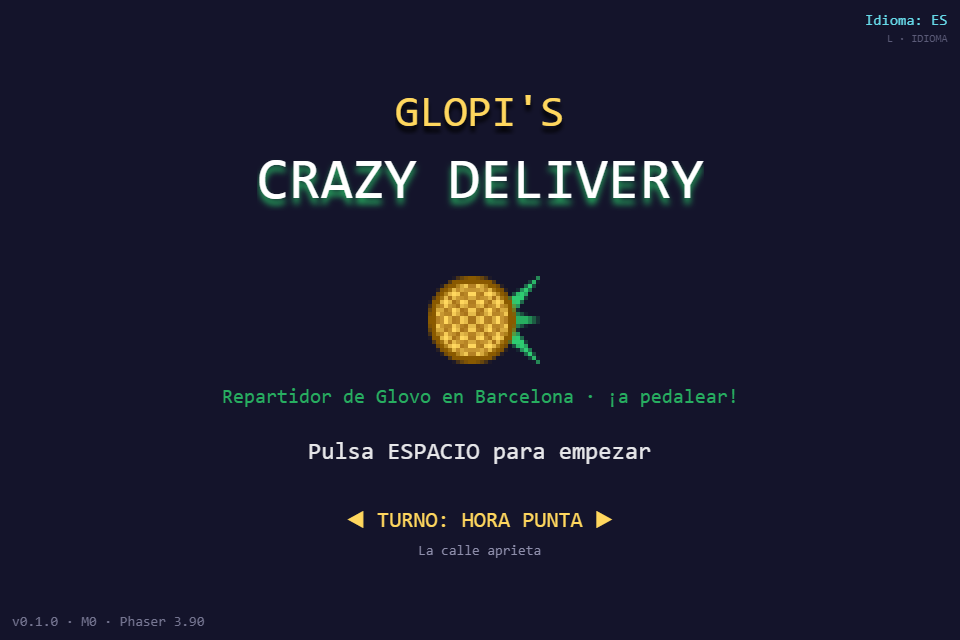
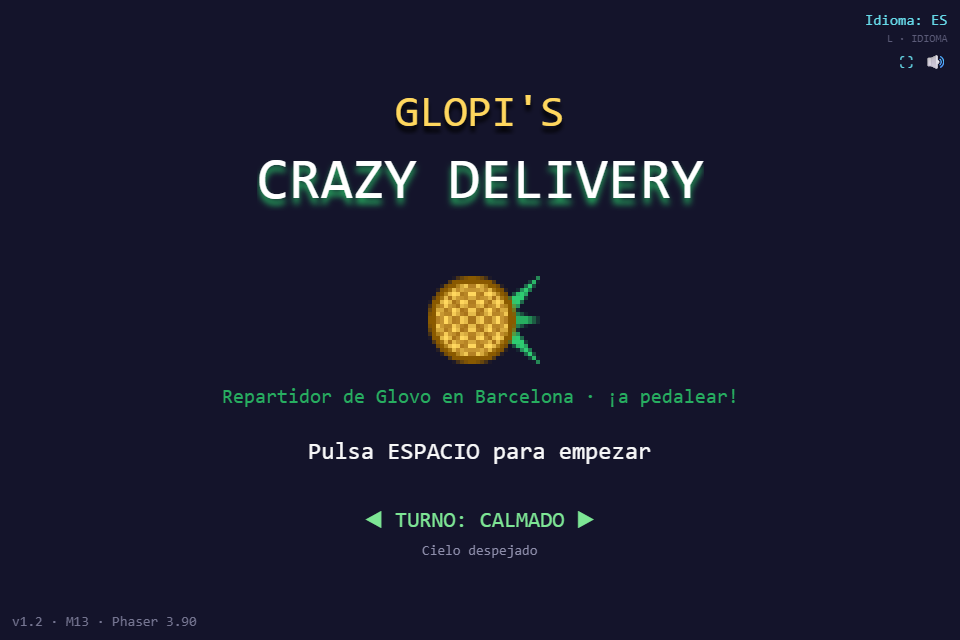
deploy: v1.2.0 — rebuje draft, promo refresh, 30-frame gameplay GIF

diff --git a/juego/src/scenes/GameScene.js b/juego/src/scenes/GameScene.js
@@ -2,10 +2,11 @@ import * as Phaser from 'phaser';
 
 import {
   GAME_WIDTH, GAME_HEIGHT, PLAYER, VEHICLE, CAMERA, IMPACT, DEBUG_KEY, ORDER, ZONE,
-  TRAFFIC, PEDS, SCORE, JUICE, MUSIC, GAMEPAD, WORLD,
+  TRAFFIC, PEDS, SCORE, JUICE, MUSIC, GAMEPAD, WORLD, DRAFT,
 } from '../config.js';
 import { OrderSystem } from '../systems/OrderSystem.js';
 import { TrafficSystem } from '../systems/TrafficSystem.js';
+import { DraftSystem } from '../systems/DraftSystem.js';
 import { applyDifficulty, resolveDifficulty } from '../data/difficulties.js';
 import { t } from '../i18n.js';
 import { ScoreSystem } from '../systems/ScoreSystem.js';
@@ -87,7 +88,11 @@ export default class GameScene extends Phaser.Scene {
     this.skidGfx = this.add.graphics().setDepth(4);
     this.skidMarks = []; // { x, y, a, t } pairs of wheel marks
     this.skidClock = 0;
-    this.hopT = 0; // s left of the current take-off hop
+    this.hopT = 0; // s left of the current t
+
+    // slipstream (v1.2): wake sensor + the graded boost bar above the bike
+    this.draft = new DraftSystem(DRAFT);
+    this.draftGfx = this.add.graphics().setDepth(31);
     this.hopCd = 0; // s until the next hop may fire
     this.ragdollUntil = 0; // ms timestamp: tumble window end
     this.dazeUntil = 0; // ms timestamp: input blackout end
@@ -698,9 +703,17 @@ export default class GameScene extends Phaser.Scene {
     let forward = this.vel.dot(h);
     let lateral = this.vel.dot(p);
 
+    // 2.5) slipstream probe: fills in a car's wake, graded cap+throttle
+    this.draftProbe = this.draft.update(
+      { x: this.glopi.x, y: this.glopi.y, heading: this.heading },
+      this.traffic.cars,
+      dt,
+    );
+    const draftCap = DRAFT.maxBonus * this.draftProbe.meter; // px/s cap raise
+
     // 3) throttle / brake / reverse
     if (pedaling && !braking) {
-      forward += V.throttle * dt;
+      forward += (V.throttle + DRAFT.accelBonus * this.draftProbe.meter) * dt;
     } else if (braking) {
       forward -= (forward > 0 ? V.brake : V.throttle) * dt;
       if (forward < -V.reverseMax) forward = -V.reverseMax;
@@ -709,7 +722,7 @@ export default class GameScene extends Phaser.Scene {
       forward -= sense * V.coastDrag * dt;
       if (Math.sign(forward) !== sense) forward = 0;
     }
-    forward = Phaser.Math.Clamp(forward, -V.reverseMax, V.maxSpeed);
+    forward = Phaser.Math.Clamp(forward, -V.reverseMax, V.maxSpeed + draftCap);
 
     // 4) lateral slip damps out (grip) and bleeds speed while sliding
     lateral *= Math.exp(-V.grip * dt);
@@ -720,6 +733,27 @@ export default class GameScene extends Phaser.Scene {
     this.vel.set(h.x * forward + p.x * lateral, h.y * forward + p.y * lateral);
 
     this.glopi.body.velocity.set(this.vel.x, this.vel.y);
+
+    // slipstream FX: bar above the bike, spark wake, full-meter shout
+    {
+      const d = this.draftProbe;
+      this.draftGfx.clear();
+      if (d.meter > 0.04) {
+        this.draftGfx.fillStyle(0x66d9e8, 0.9);
+        this.draftGfx.fillRect(this.glopi.x - 13, this.glopi.y - 46, 26 * d.meter, 4);
+      }
+      if (d.meter > 0.55 && pedaling) {
+        this.sparks.explode(
+          1,
+          this.glopi.x - Math.cos(this.heading) * 15,
+          this.glopi.y - Math.sin(this.heading) * 15,
+        );
+      }
+      if (d.fullEdge) {
+        this.floatText(this.glopi.x, this.glopi.y - 74, t('pop.draft'), '#66d9e8');
+        this.playSfx('sfx-blip');
+      }
+    }
 
     // camera: look where you're going, zoom out at speed
     const cam = this.cameras.main;

diff --git a/juego/src/systems/DraftSystem.js b/juego/src/systems/DraftSystem.js
@@ -1,0 +1,86 @@
+/**
+ * Slipstream / draft (the §4 lean/draft promise) — plain JS, no Phaser.
+ *
+ * Riding close BEHIND a moving car in its wake fills a meter; the meter is
+ * a graded sprint: on top of the fill itself it raises the bike's speed cap
+ * (maxBonus) and adds acceleration while pedaling (accelBonus). Leaving the
+ * wake drains the meter over meterDrain s, so pulling out of a long draft
+ * keeps the sprint for a moment — classic slipstream release.
+ *
+ * Alignment rules (all must hold for a car to feed the meter):
+ *   · the car moves at ≥ minCarSpeed (parked props don't draft)
+ *   · its motion direction matches the bike heading (dot ≥ coneDot);
+ *     oncoming cars and perpendicular crosses don't count
+ *   · the bike trails the car along that motion by 4..followDist px
+ *   · lateral offset off the wake ≤ lateralMax px
+ */
+export class DraftSystem {
+  /** @param cfg the DRAFT block from src/config.js */
+  constructor(cfg) {
+    this.cfg = cfg;
+    this.reset();
+  }
+
+  reset() {
+    this.meter = 0;
+    this.wasFull = false;
+    this.car = null;
+    return this;
+  }
+
+  /** Velocity of a traffic car — same math GameScene feeds the sprites. */
+  static carVel(car) {
+    if (car.lane.axis === 'h') return { x: car.lane.dir * car.speed, y: 0 };
+    if (car.lane.axis === 'v') return { x: 0, y: car.lane.dir * car.speed };
+    // diagonal lanes carry their normalized tangent on the lane itself
+    return {
+      x: car.lane.dir * car.speed * car.lane.tx,
+      y: car.lane.dir * car.speed * car.lane.ty,
+    };
+  }
+
+  /**
+   * One sensor step. @param bike {x, y, heading}; @param cars the traffic
+   * data array. Returns { meter, active, fullEdge, car }.
+   */
+  update(bike, cars, dt) {
+    const C = this.cfg;
+    const hb = { x: Math.cos(bike.heading), y: Math.sin(bike.heading) };
+
+    let best = null;
+    let bestAlong = Infinity;
+    for (const car of cars) {
+      const cv = DraftSystem.carVel(car);
+      const sp = Math.hypot(cv.x, cv.y);
+      if (sp < C.minCarSpeed) continue;
+      const ux = cv.x / sp;
+      const uy = cv.y / sp;
+      // aligned with the bike heading (wake goes the same way)
+      if (ux * hb.x + uy * hb.y < C.coneDot) continue;
+      const dx = car.x - bike.x;
+      const dy = car.y - bike.y;
+      // bike trails the car along its motion (along > 0 = behind)
+      const along = dx * ux + dy * uy;
+      if (along <= 4 || along > C.followDist) continue;
+      if (Math.abs(dy * ux - dx * uy) > C.lateralMax) continue;
+      if (along < bestAlong) {
+        bestAlong = along;
+        best = car;
+      }
+    }
+
+    this.car = best;
+    this.meter = best
+      ? Math.min(1, this.meter + dt / C.meterFill)
+      : Math.max(0, this.meter - dt / C.meterDrain);
+
+    // full-edge fires once per fill cycle (re-charging after a drain
+    // triggers it again, but sitting parked on the meter doesn't)
+    const full = this.meter >= 0.999;
+    const fullEdge = full && !this.wasFull;
+    if (!full) this.wasFull = false;
+    else this.wasFull = true;
+
+    return { meter: this.meter, active: !!best, fullEdge, car: best };
+  }
+}

diff --git a/index.html b/index.html
@@ -105,20 +105,20 @@
     <h2>Capturas</h2>
     <div class="grid">
       <a href="promo/shot-ride.png" target="_blank">
-        <img src="promo/shot-ride.png" alt="Paseo a toda velocidad por el Eixample" />
-        <p class="caps">A tope por el Eixample, derrapando entre el tráfico</p>
+        <img src="promo/shot-ride.png" alt="A tope por la diagonal junto al tráfico" />
+        <p class="caps">La Diagonal a fondo, derrapando entre el tráfico</p>
       </a>
       <a href="promo/shot-pickup.png" target="_blank">
         <img src="promo/shot-pickup.png" alt="Recogida de un pedido" />
-        <p class="caps">Pedido recogido · ¡RAPIDÍSSIM! tiempo a favor</p>
+        <p class="caps">Pedido en el aro de recogida · frena para aceptar</p>
       </a>
       <a href="promo/shot-delivery.png" target="_blank">
-        <img src="promo/shot-delivery.png" alt="Entrega cobrada junto a la Sagrada Família" />
-        <p class="caps">Entrega cobrada a la sombra de la Sagrada Família</p>
+        <img src="promo/shot-delivery.png" alt="Entrega cobrada junto a la playa" />
+        <p class="caps">Entrega cobrada en la Barceloneta · +9s de bonus al reloj</p>
       </a>
       <a href="promo/shot-results.png" target="_blank">
-        <img src="promo/shot-results.png" alt="Tarjeta de fin de turno con rango B" />
-        <p class="caps">Fin de turno: rango, propinas y récord</p>
+        <img src="promo/shot-results.png" alt="Tarjeta de fin de turno con rango S" />
+        <p class="caps">Fin de turno: rango, propinas y bonus por entregas</p>
       </a>
       <a href="promo/shot-menu.png" target="_blank">
         <img src="promo/shot-menu.png" alt="Menú principal" />
@@ -130,6 +130,7 @@
     <ul>
       <li>Arcade estilo <i>Crazy Taxi</i>: entregas contrarreloj pedaleando por una Barcelona 2048×1536 con Sagrada Família, Glòries y la Rambla.</li>
       <li>Cola por calles: coches y patinetes, casi-accidentes misericordiosos, campanilla (<b>MAYÚS</b>) y caos garantizado.</li>
+      <li><b>Rebuje</b>: engánchate a la estela de un coche — el medidor se llena y el turbo te lanza por la avenida.</li>
       <li>Tiendas y clientes bilingües (ES/CA): desde <i>bocata mixto</i> hasta <i>fideuà a la mar</i>.</li>
       <li>Javascript + Phaser 3.90 vía import map — cero dependencias, cero build.</li>
     </ul>

diff --git a/juego/src/config.js b/juego/src/config.js
@@ -25,6 +25,23 @@ export const VEHICLE = {
   driftDrag: 0.9, // forward speed bleed per px/s of lateral slip, per second
 };
 
+/**
+ * Slipstream (v1.2, the §4 draft promise): riding in a car's wake fills a
+ * meter that raises the speed cap (maxBonus) and adds acceleration while
+ * pedaling; leaving the wake drains it over meterDrain s so the sprint
+ * carries for a beat.
+ */
+export const DRAFT = {
+  followDist: 190, // px of trail distance inside the wake
+  lateralMax: 46, // px off the wake line before the slipstream breaks
+  coneDot: 0.82, // min dot(carMotion, bikeHeading) — no oncoming drafts
+  minCarSpeed: 100, // px/s; parked props don't feed the meter
+  meterFill: 0.7, // s to a full meter in the wake
+  meterDrain: 1.4, // s to bleed a full meter after leaving
+  accelBonus: 250, // px/s^2 extra throttle at full meter
+  maxBonus: 90, // px/s cap raise at full meter (300 -> 390)
+};
+
 export const CAMERA = {
   lookahead: 0.16, // camera offset = velocity * lookahead (world px)
   zoomSpan: 0.1, // zoom-out amount at top speed

diff --git a/juego/src/i18n.js b/juego/src/i18n.js
@@ -49,6 +49,7 @@ const DICTIONARIES = {
     'pop.near': '¡CASI! +€{n}{streak}',
     'pop.cashLose': '−€{n} ¡AY!',
     'pop.ding': '¡DING!',
+    'pop.draft': '¡REBUJE!',
     'pop.next': '¡SIGUIENTE PARADA!',
     'pop.chain': '¡CADENA COMPLETA! +€{n}',
     // tip tier words
@@ -117,6 +118,7 @@ const DICTIONARIES = {
     'pop.near': 'GAIREBÉ! +€{n}{streak}',
     'pop.cashLose': '−€{n} AI!',
     'pop.ding': 'DING!',
+    'pop.draft': '¡A RESGUARD!',
     'pop.next': 'SEGÜENT PARADA!',
     'pop.chain': 'CADENA COMPLETADA! +€{n}',
     // tip tier words
@@ -185,6 +187,7 @@ const DICTIONARIES = {
     'pop.near': 'CLOSE ONE! +€{n}{streak}',
     'pop.cashLose': '−€{n} OW!',
     'pop.ding': 'DING!',
+    'pop.draft': 'DRAFT!',
     'pop.next': 'NEXT STOP!',
     'pop.chain': 'CHAIN COMPLETE! +€{n}',
     // tip tier words

diff --git a/juego/src/scenes/MenuScene.js b/juego/src/scenes/MenuScene.js
@@ -71,7 +71,7 @@ export default class MenuScene extends Phaser.Scene {
     });
 
     this.add
-      .text(12, GAME_HEIGHT - 26, 'v1.1 · M8 · Phaser 3.90', {
+      .text(12, GAME_HEIGHT - 26, 'v1.2 · M13 · Phaser 3.90', {
         fontFamily: 'monospace',
         fontSize: '14px',
         color: '#8d8daa',
